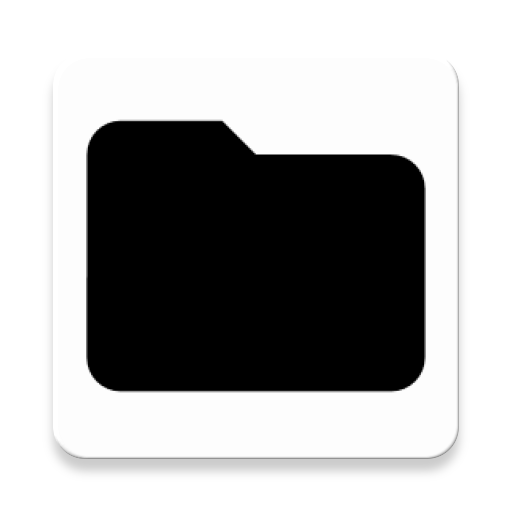
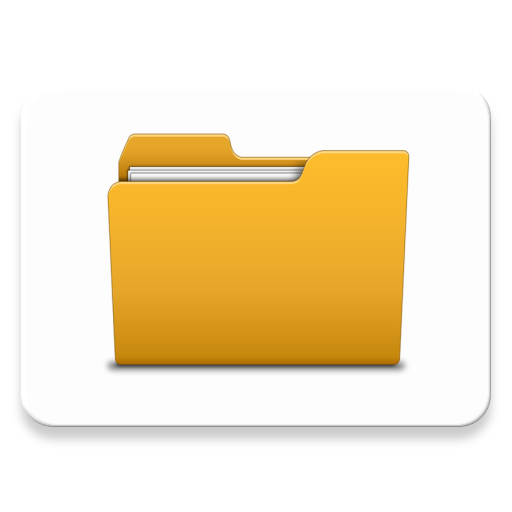
add ViewHolder and image

diff --git a/app/src/main/java/com/example/filebrowser/FilesAdapter.java b/app/src/main/java/com/example/filebrowser/FilesAdapter.java
@@ -1,15 +1,16 @@
 package com.example.filebrowser;
 
-import android.os.Environment;
-import android.util.Log;
+import android.os.Build;
 import android.view.LayoutInflater;
 import android.view.View;
 import android.view.ViewGroup;
 import android.widget.BaseAdapter;
+import android.widget.ImageView;
 import android.widget.TextView;
 
 import java.io.File;
 import java.util.ArrayList;
+import java.util.Arrays;
 import java.util.Collections;
 import java.util.List;
 
@@ -18,22 +19,10 @@ import java.util.List;
  */
 
 class FilesAdapter extends BaseAdapter {
-    private final File mPath;
-    private List<File> mFileList;
-    public FilesAdapter(File path){
-        mPath = path;
-        mFileList = new ArrayList<>();
-        File[] files = mPath.listFiles();
-        if (files!=null){
-            for (File f : files){
-                if (f.isDirectory()){mFileList.add(f);}
-            }
-            for (File f : files){
-                if (!f.isDirectory()){mFileList.add(f);}
-            }
-        }
 
-
+    private final List<File> mFileList;
+    public FilesAdapter(List<File> fileList){
+        mFileList = fileList;
     }
     @Override
     public int getCount() {
@@ -51,25 +40,49 @@ class FilesAdapter extends BaseAdapter {
         return 0;
     }
 
+    public int getCounTFilesConstaints(File dir){
+        if (dir.listFiles()!=null){
+            return dir.listFiles().length;
+        }else {
+            return 0;
+        }
+    }
+
     @Override
     public View getView(int position, View convertView, ViewGroup parent) {
+        ViewHolder viewHolder;
+        if (convertView==null){
+            viewHolder = new ViewHolder();
+            convertView = LayoutInflater.from(parent.getContext()).inflate(R.layout.item_of_dir, parent, false);
+            viewHolder.mName = (TextView) convertView.findViewById(R.id.nameOfDir);
+            viewHolder.mFullPathView = (TextView) convertView.findViewById(R.id.fullPath);
+            viewHolder.mFolderImageView = (ImageView) convertView.findViewById(R.id.imageFolder);
+            viewHolder.mCountFiles = (TextView) convertView.findViewById(R.id.CountFiles);
+            convertView.setTag(viewHolder);
+        }
+        viewHolder = (ViewHolder) convertView.getTag();
 
         if (getItem(position).isDirectory()){
-            convertView = LayoutInflater.from(parent.getContext()).inflate(R.layout.item_of_dir, parent, false);
-            TextView nameOfDirectoryView = (TextView) convertView.findViewById(R.id.nameOfDir);
-            TextView infoTextView = (TextView) convertView.findViewById(R.id.info);
-            nameOfDirectoryView.setText(getItem(position).getName());
-            infoTextView.setText(getItem(position).getAbsolutePath());
-
-
-        }
-        else{
-            convertView = LayoutInflater.from(parent.getContext()).inflate(R.layout.item_of_files, parent, false);
+            viewHolder.mName.setText(getItem(position).getName());
+            viewHolder.mFullPathView.setText(getItem(position).getAbsolutePath());
+            viewHolder.mFolderImageView.setImageResource(R.mipmap.ic_folder);
+            viewHolder.mCountFiles.setText("Files inside " + String.valueOf(getCounTFilesConstaints(getItem(position))));
+            } else {
+                    viewHolder.mName.setText(getItem(position).getName());
+                    viewHolder.mName.setPadding(30,0,0,0);
+            if (Build.VERSION.SDK_INT >= Build.VERSION_CODES.M) {
+                viewHolder.mName.setTextAppearance(R.style.FileText);
+            }
             convertView.setClickable(true);
-            TextView nameOfDirectoryView = (TextView) convertView.findViewById(R.id.nameOfFile);
-            nameOfDirectoryView.setText(getItem(position).getName());
+            }
 
-        }
         return convertView;
     }
+    private class ViewHolder{
+        TextView mFullPathView;
+        TextView mName;
+        TextView mCountFiles;
+        ImageView mFolderImageView;
+    }
+
 }

diff --git a/app/src/main/java/com/example/filebrowser/MainActivity.java b/app/src/main/java/com/example/filebrowser/MainActivity.java
@@ -10,11 +10,15 @@ import android.widget.AdapterView;
 import android.widget.ListView;
 
 import java.io.File;
+import java.util.ArrayList;
+import java.util.Arrays;
+import java.util.List;
 
 import static android.os.Environment.getRootDirectory;
 
 public class MainActivity extends AppCompatActivity {
     private ListView mListView;
+    private List<File> mFiles;
     private File mFile;
     private final static String PATH = "path";
 
@@ -26,29 +30,40 @@ public class MainActivity extends AppCompatActivity {
     }
 
 
-
-
-
-
     @Override
     protected void onResume() {
         super.onResume();
         String path = getIntent().getStringExtra(PATH);
         if (path!=null){
-            Log.d("path", path);
             mFile = new File(path);
            }else{
             mFile = Environment.getRootDirectory();
         }
-        mListView.setAdapter(new FilesAdapter(mFile));
+        mFiles = doListFiles(mFile);
+        mListView.setAdapter(new FilesAdapter(mFiles));
         mListView.setOnItemClickListener(new AdapterView.OnItemClickListener() {
             @Override
             public void onItemClick(AdapterView<?> parent, View view, int position, long id) {
-                Log.d("item", mFile.listFiles()[position].getName());
                 Intent updateActivity = new Intent(parent.getContext(), parent.getContext().getClass());
-                updateActivity.putExtra(PATH, mFile.listFiles()[position].getAbsolutePath());
+                updateActivity.putExtra(PATH, mFiles.get(position).getAbsolutePath());
+                Log.d("path", mFiles.get(position).getAbsolutePath());
                 startActivity(updateActivity);
             }
         });
+
     }
+    private List<File> doListFiles(File path){
+        File[] files = path.listFiles();
+        List<File> fileList = new ArrayList<>();
+        if (files!=null){
+            Arrays.sort(files);
+            for (File f : files){
+                if (f.isDirectory()){fileList.add(f);}
+            }
+
+            for (File f : files){
+                if (!f.isDirectory()){fileList.add(f);}
+            }
+        }
+    return fileList;}
 }
